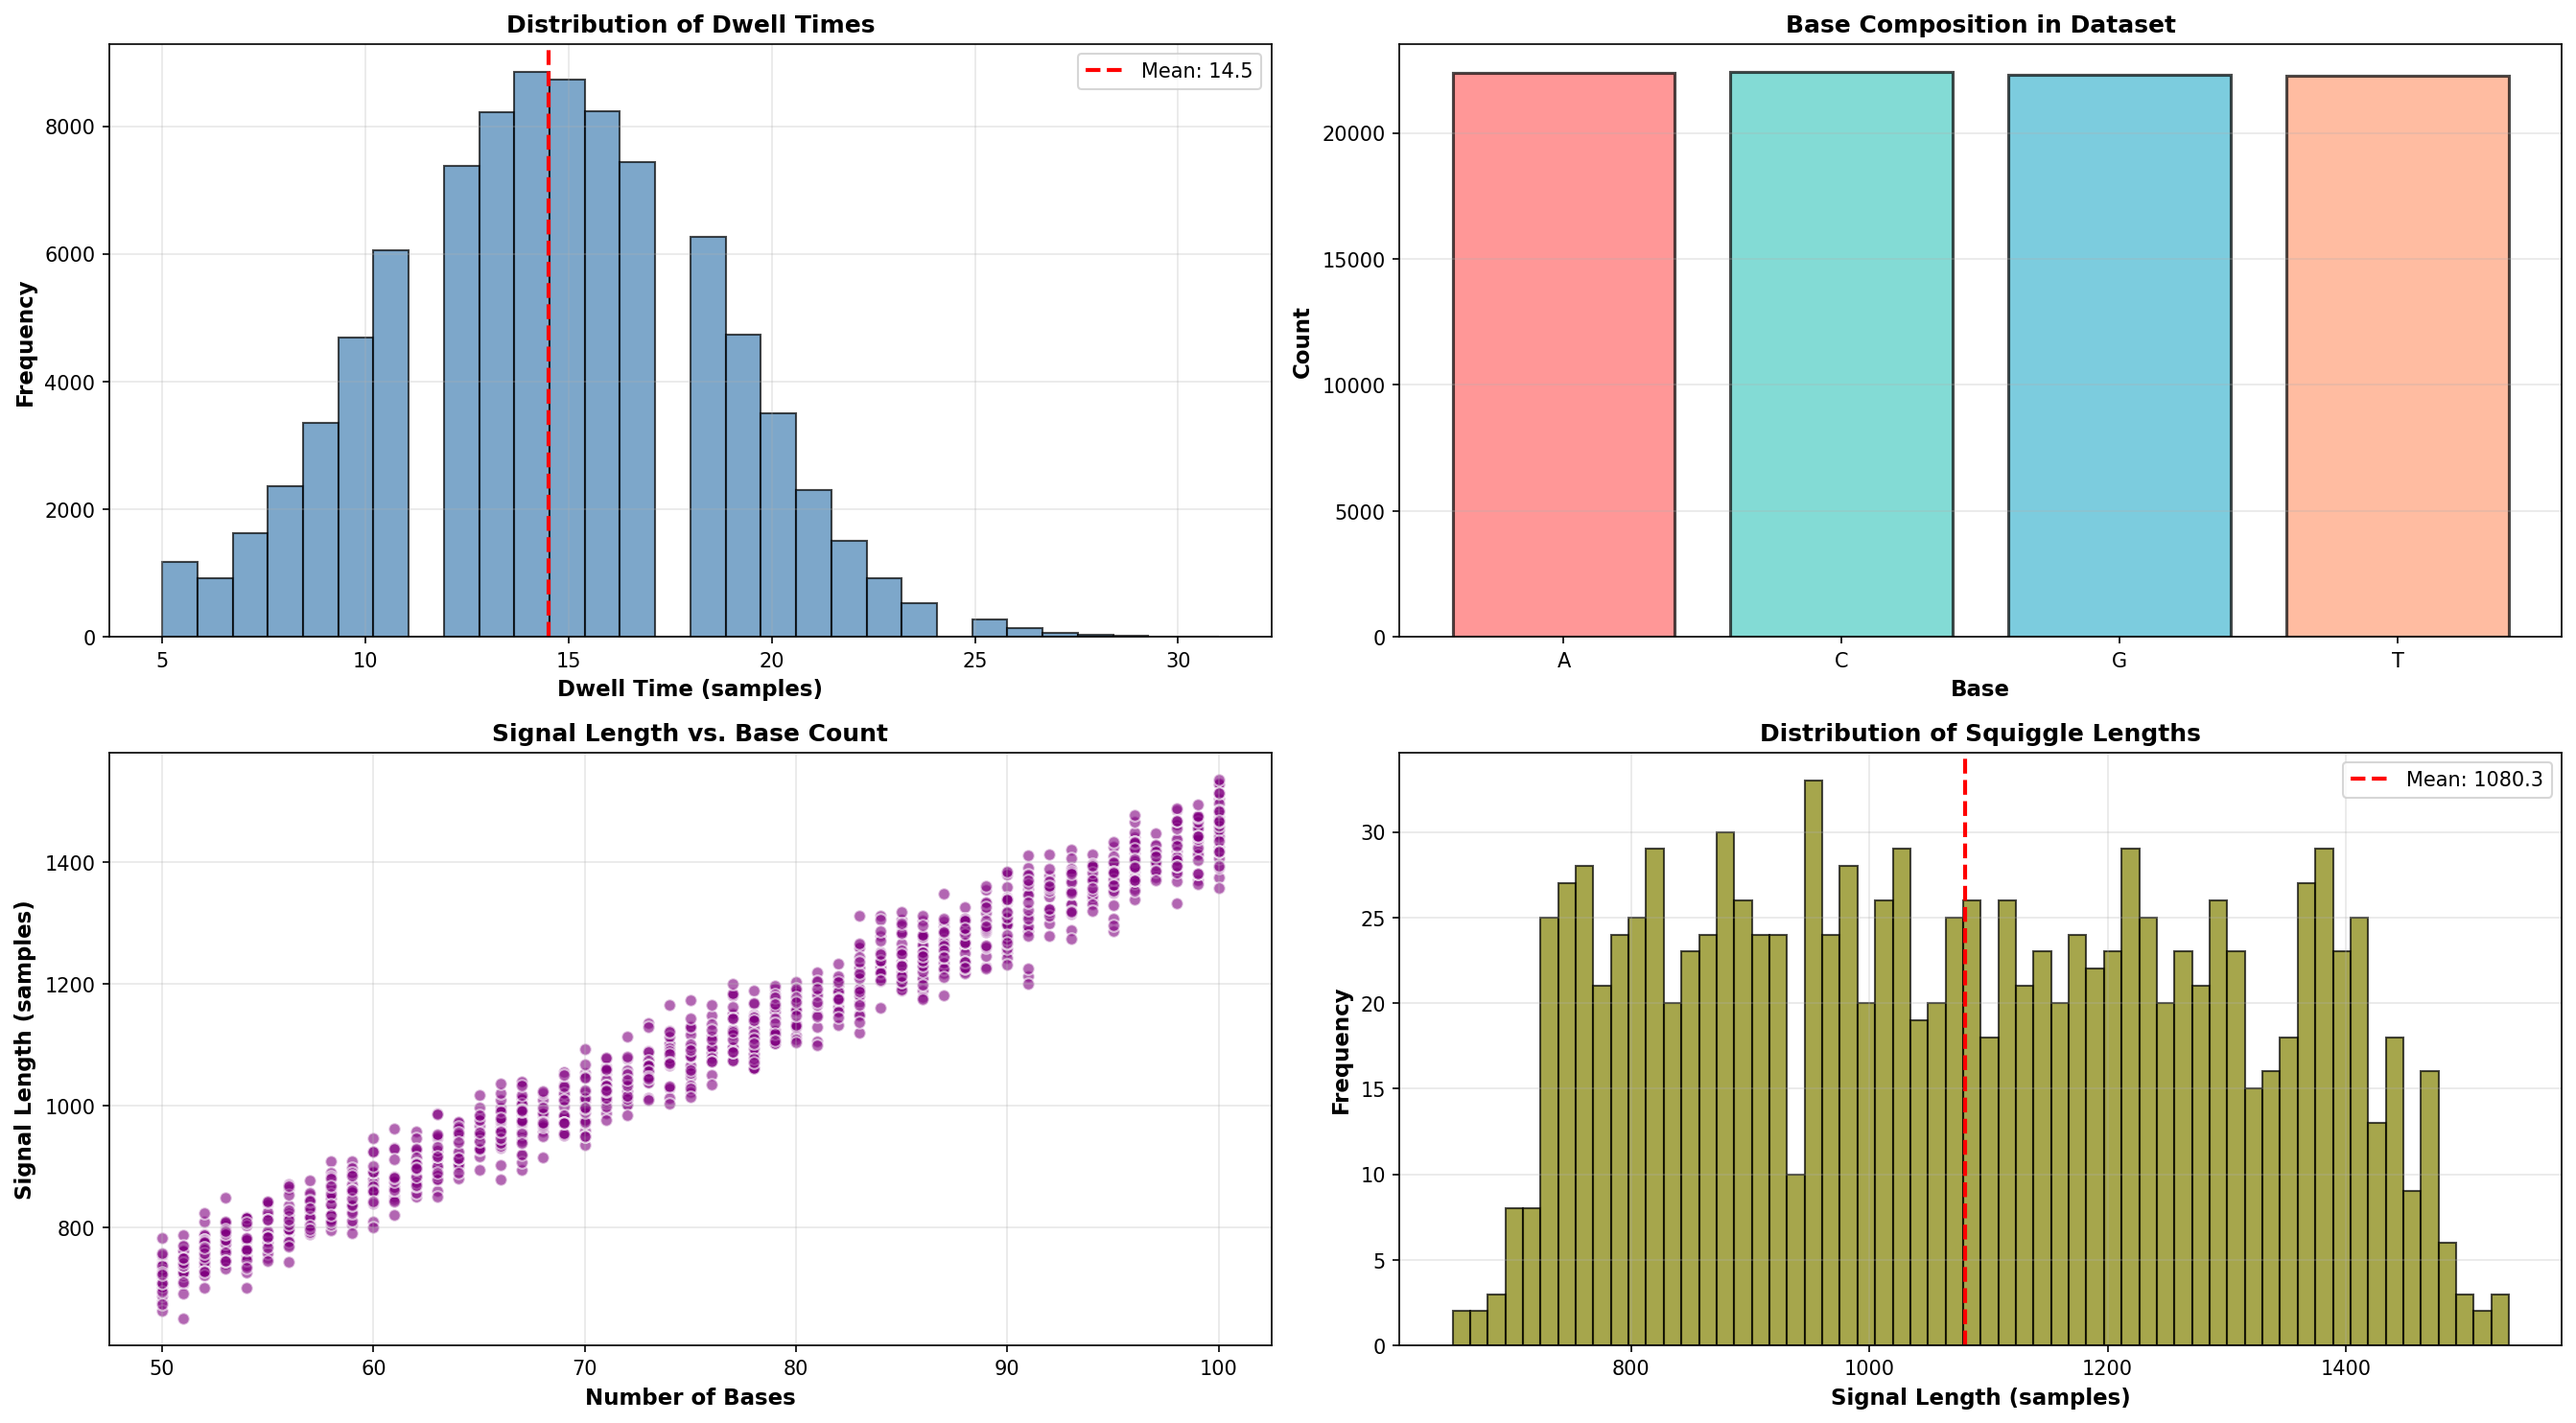
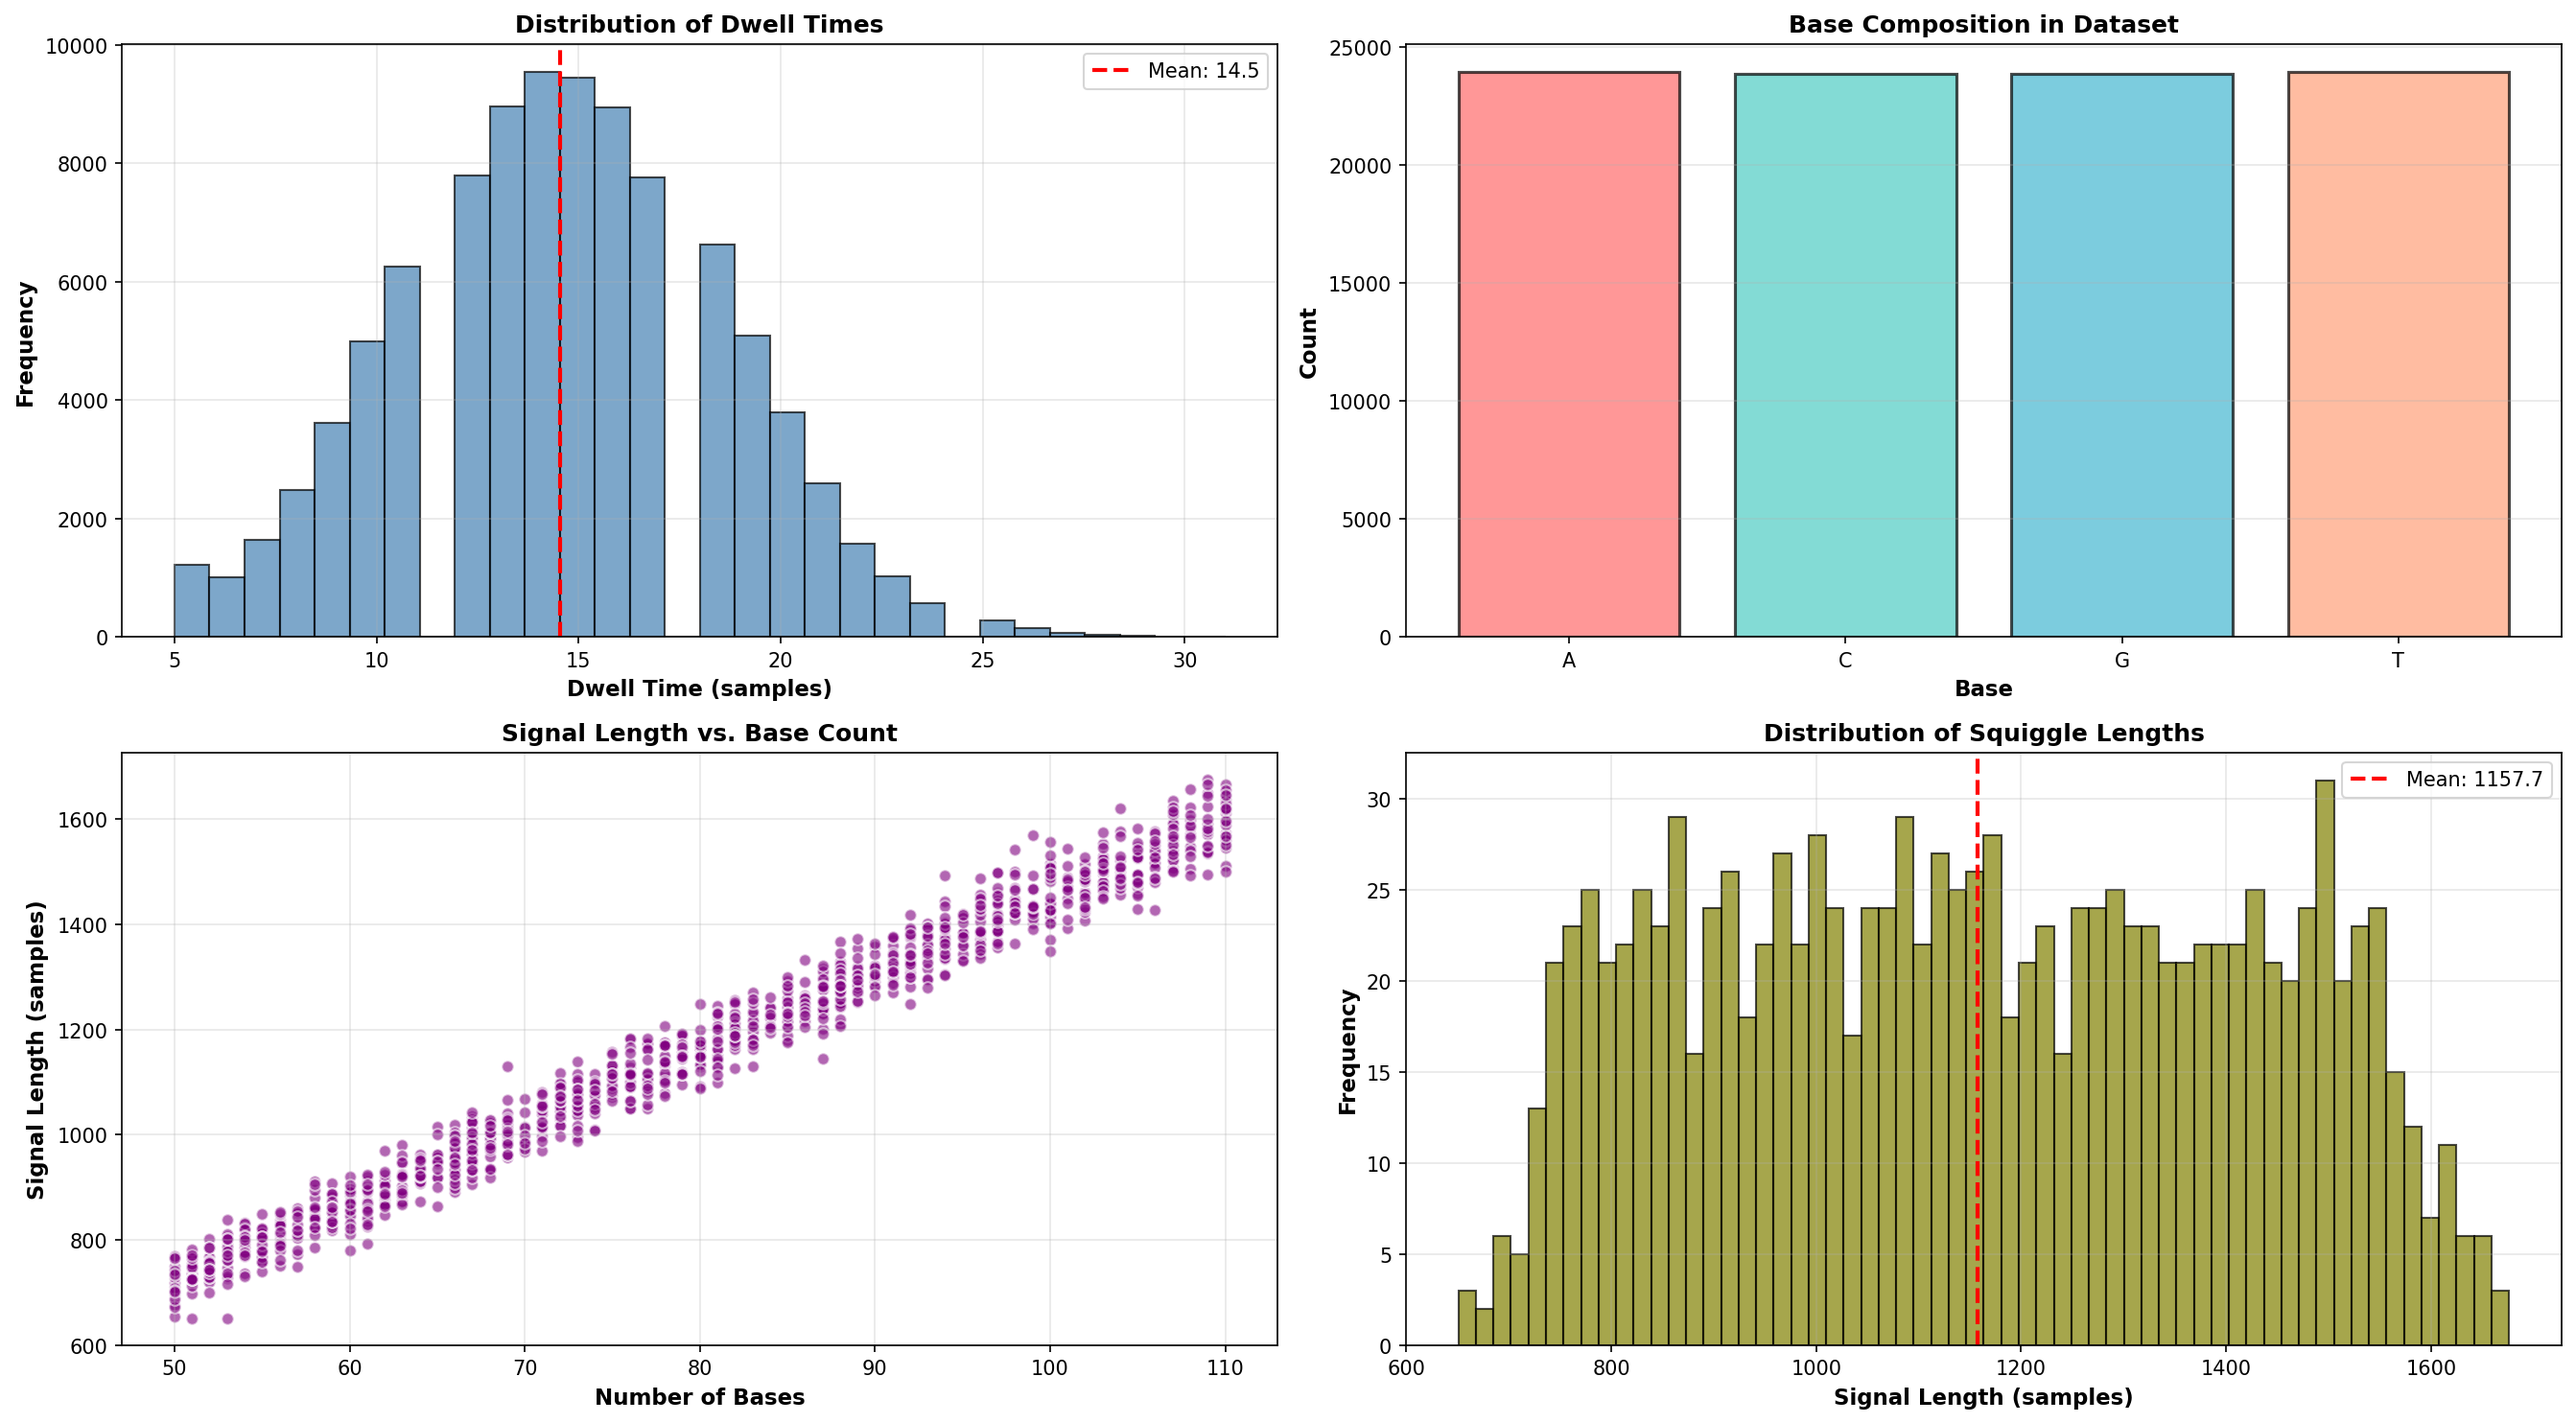
update config.py and input.json

diff --git a/src/data_simulator.py b/src/data_simulator.py
@@ -22,22 +22,22 @@ from config import (
     DWELL_TIME_MEAN,
     DWELL_TIME_STD,
     MIN_DWELL_TIME,
-    TRAIN_PATH,
-    TEST_PATH,
     WEIGHTS,
-    NOISE_STD,
+    NOISE_STD_MIN,
+    NOISE_STD_MAX,
     DRIFT_FACTOR,
     WINDOW_SIZE,
     DATASET_TRAIN_RATIO,
-    DATASET_RANDOM_SEED,
-    DATASET_TRAIN_NOISE_STD_MIN,
-    DATASET_TRAIN_NOISE_STD_MAX,
+    DATASET_RANDOM_SEED,    
+    TRAIN_PATH,
+    TEST_PATH,
     USER_CONFIG,
 )
 
 
 # Apply optional overrides from user config.
-NOISE_STD = USER_CONFIG.get("noise_std", NOISE_STD)
+NOISE_STD_MIN = USER_CONFIG.get("noise_std_min", NOISE_STD_MIN)
+NOISE_STD_MAX = USER_CONFIG.get("noise_std_max", NOISE_STD_MAX)
 DRIFT_FACTOR = USER_CONFIG.get("drift_factor", DRIFT_FACTOR)
 
 
@@ -98,7 +98,7 @@ def _step_sliding_window_filter(
 def _step_add_noise(
     signal: np.ndarray,
     drift_factor: float = DRIFT_FACTOR,
-    noise_std: float = NOISE_STD,
+    noise_std: float = NOISE_STD_MAX,
 ) -> np.ndarray:
     """Step 4a: Add linear drift proportional to the mean signal."""
     mean_signal = np.mean(signal)
@@ -124,13 +124,19 @@ def _step_smooth(signal: np.ndarray, window_size: int = WINDOW_SIZE) -> np.ndarr
 def generate_squiggle(
     dna_sequence: str,
     drift_factor: float = DRIFT_FACTOR,
-    noise_std: float = NOISE_STD,
+    noise_std: float = NOISE_STD_MAX,
     window_size: int = WINDOW_SIZE,
 ) -> Tuple[np.ndarray, List[int]]:
     """Generate a realistic nanopore squiggle signal from a DNA sequence.
 
-    The function composes modular steps implemented as helper functions to make
-    the pipeline more readable and testable. Behavior and defaults are unchanged.
+    Args:
+        dna_sequence: Input DNA sequence (string of A, C, G, T).
+        drift_factor: Proportionality constant for linear drift (default 0.01).
+        noise_std: Standard deviation of Gaussian noise to add (default 3.5 pA).
+        window_size: Window size for smoothing (default 3). 
+    
+    Returns:
+        Tuple[np.ndarray, List[int]]: Final squiggle signal and list of dwell times per base.
     """
     # Steps 1 & 2: map bases to levels and expand by dwell
     signal, dwell_times = _step_map_and_expand(dna_sequence)
@@ -305,14 +311,14 @@ def main() -> None:
     )
     noise_std_min = float(
         USER_CONFIG.get(
-            "train_noise_std_min",
-            DATASET_TRAIN_NOISE_STD_MIN,
+            "noise_std_min",
+            NOISE_STD_MIN,
         ),
     )
     noise_std_max = float(
         USER_CONFIG.get(
-            "train_noise_std_max",
-            DATASET_TRAIN_NOISE_STD_MAX,
+            "noise_std_max",
+            NOISE_STD_MAX,
         ),
     )
 

diff --git a/src/config.py b/src/config.py
@@ -33,7 +33,10 @@ MIN_DWELL_TIME = 5  # The minimum samples to detect a base
 # Weights for the 3-sample sliding window filter (current, prev, next).
 WEIGHTS = (0.7, 0.2, 0.1)
 
-NOISE_STD = 3.5  # Gaussian noise in pA
+# Default Gaussian noise in pA
+NOISE_STD_MIN = 1.5 
+NOISE_STD_MAX = 3.5 
+
 DRIFT_FACTOR = 0.01  # Simulates slight electrical fluctuations over time
 
 WINDOW_SIZE = 3  # Size of the sliding window for smoothing
@@ -45,10 +48,6 @@ DATASET_RANDOM_SEED = 42
 TRAIN_PATH = Path("data/train")
 TEST_PATH = Path("data/test")
 
-# When generating the training split, noise standard deviation is sampled
-# uniformly per sequence from [min, max]. Defaults keep legacy behavior.
-DATASET_TRAIN_NOISE_STD_MIN = NOISE_STD
-DATASET_TRAIN_NOISE_STD_MAX = NOISE_STD
 
 # Training configuration constants
 TRAIN_NUM_EPOCHS = 50  # Default number of epochs for training
@@ -60,6 +59,11 @@ MODEL_FILE = "squig_model.pt"  # Default model filename
 CHECKPOINT_FILE = "checkpoint.pt"  # Default checkpoint filename
 LOSS_PLOT_DPI = 150  # DPI when saving loss curve
 
+# --- Training Augmentation Settings ---
+# Default maximum standard deviation of Gaussian noise to add during training
+TRAINING_NOISE_MAX = 0.0
+# If True, noise increases linearly from 0 to TRAINING_NOISE_MAX over epochs
+USE_NOISE_CURRICULUM = False
 
 # DNA-to-integer mapping for CTC loss
 BASE_TO_INT = {
@@ -69,11 +73,18 @@ BASE_TO_INT = {
     "T": 4,
 }
 
+# Base index to character mapping
+INT_TO_BASE = {
+    0: "Blank",
+    1: "A",
+    2: "C",
+    3: "G",
+    4: "T",
+}
+
 # ---------------------------------------------------------------------------
 # User configuration: load optional overrides from src/input.json
 # ---------------------------------------------------------------------------
-
-
 def load_user_config(
     path: Path = Path(__file__).parent / "input.json",
 ) -> dict[str, Any]:
@@ -93,11 +104,3 @@ def load_user_config(
 # global dictionary that modules can import and query for overrides
 USER_CONFIG: dict = load_user_config()
 
-# Base index to character mapping
-INT_TO_BASE = {
-    0: "Blank",
-    1: "A",
-    2: "C",
-    3: "G",
-    4: "T",
-}
